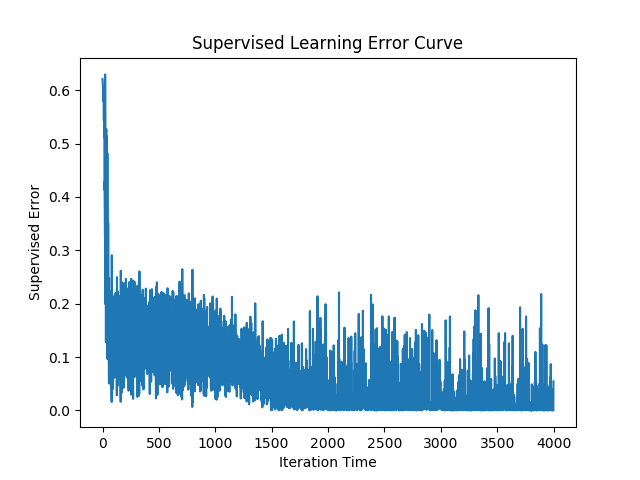
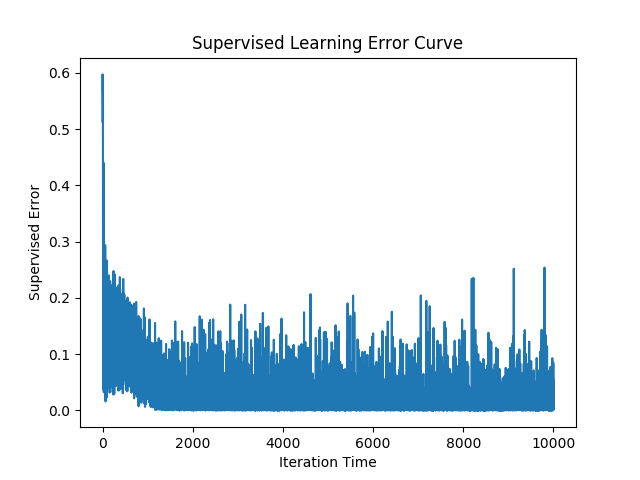
without pretraining

diff --git a/test1/main.py b/test1/main.py
@@ -56,7 +56,7 @@ def main():
 	# prepare unsupervised and supervised data
 	# unum = 5000
         unum = 0 # unsupervised learning 
-	snum = 4000 # supervised learning
+	snum = 10000 # supervised learning
 	ulbl = np.random.randint(0, len(r), size=unum)
 	useq = np.random.randint(0, train, size=unum)
 	uerr = np.zeros(unum)
